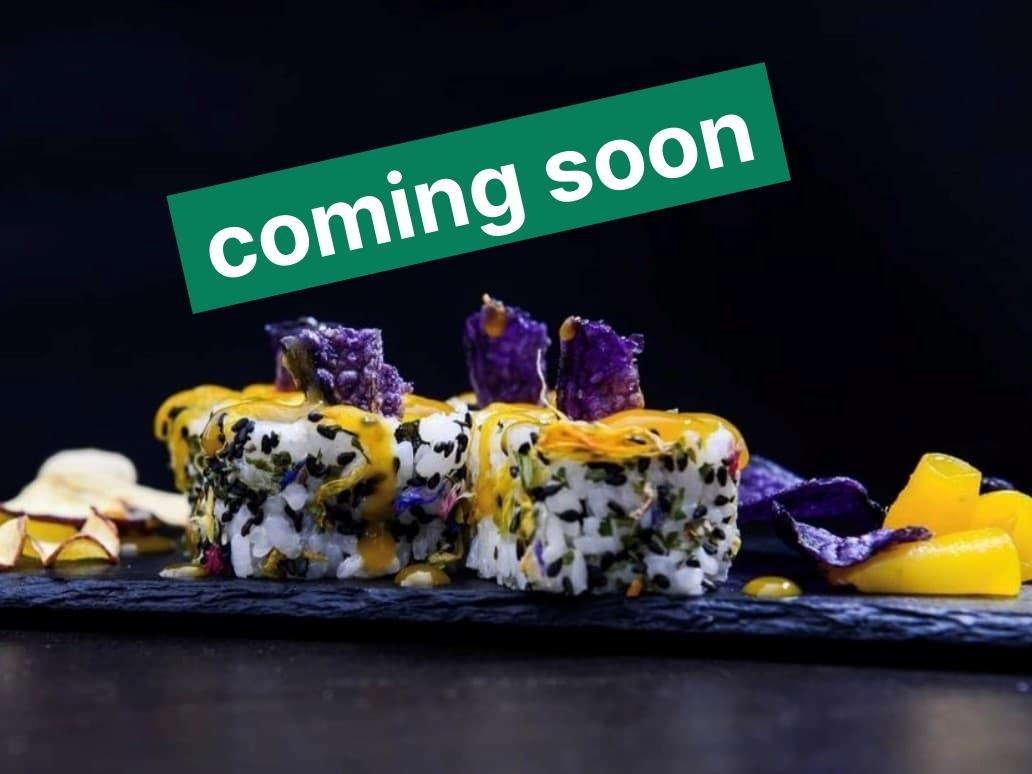
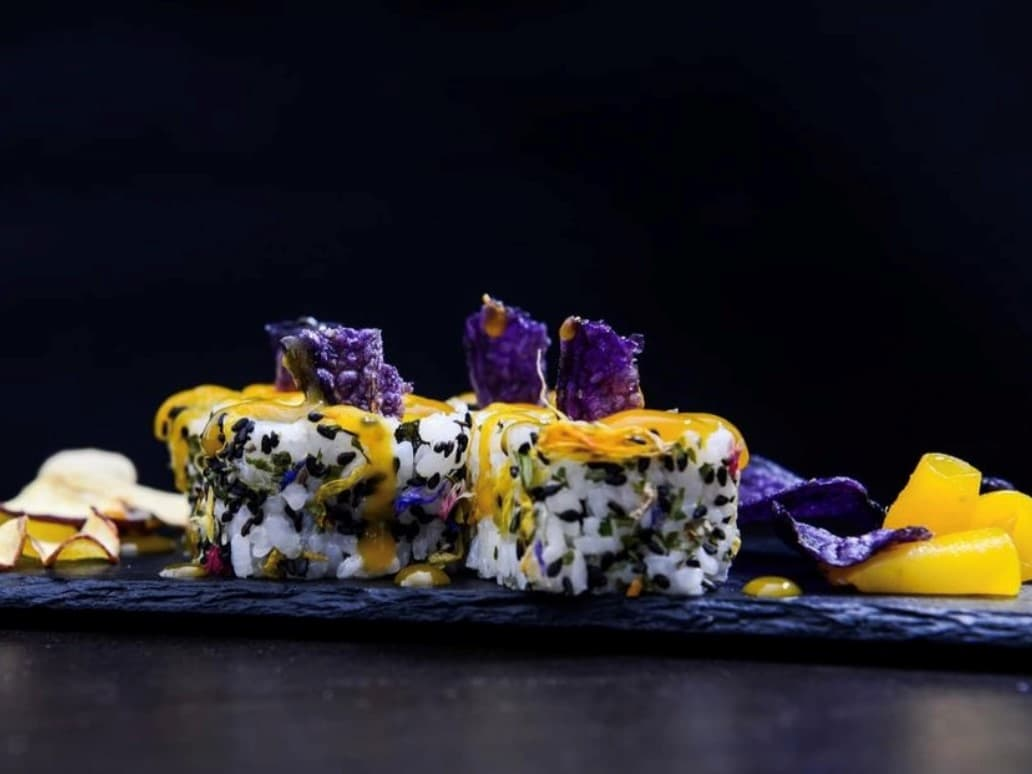
updated menu page

Changed region(s): [[0.155, 0.062, 0.7752, 0.4031]]

diff --git a/html/menu.html b/html/menu.html
@@ -252,25 +252,69 @@
               </div>
             </div>
           </div>
-        </div>
-        <div class="menu-pdf-link-container">
-          <a class="menu-pdf-link" href="../pdf/osterbrunch.pdf" target="_blank"
-            >Osterbrunch
-            <svg
-              xmlns="http://www.w3.org/2000/svg"
-              class="external-link-icon"
-              fill="none"
-              viewBox="0 0 24 24"
-              stroke="currentColor"
-              stroke-width="2"
-            >
-              <path
-                stroke-linecap="round"
-                stroke-linejoin="round"
-                d="M10 6H6a2 2 0 00-2 2v10a2 2 0 002 2h10a2 2 0 002-2v-4M14 4h6m0 0v6m0-6L10 14"
-              />
-            </svg>
-          </a>
+
+          <div class="grid-element-container">
+            <div class="grid-element">
+              <img class="menu-img" src="../img/brunch-menu.jpg" />
+              <div class="menu-text-container">
+                <h2 class="heading-secondary menu-title">Brunch</h2>
+                <p class="price-text">
+                  <svg
+                    xmlns="http://www.w3.org/2000/svg"
+                    class="clipboard-icon"
+                    fill="none"
+                    viewBox="0 0 24 24"
+                    stroke="currentColor"
+                    stroke-width="2"
+                  >
+                    <path
+                      stroke-linecap="round"
+                      stroke-linejoin="round"
+                      d="M9 5H7a2 2 0 00-2 2v12a2 2 0 002 2h10a2 2 0 002-2V7a2 2 0 00-2-2h-2M9 5a2 2 0 002 2h2a2 2 0 002-2M9 5a2 2 0 012-2h2a2 2 0 012 2m-3 7h3m-3 4h3m-6-4h.01M9 16h.01"
+                    /></svg
+                  >Package: CHF 49
+                </p>
+                <p class="price-text price-text-last">
+                  <svg
+                    xmlns="http://www.w3.org/2000/svg"
+                    class="clipboard-icon"
+                    fill="none"
+                    viewBox="0 0 24 24"
+                    stroke="currentColor"
+                    stroke-width="2"
+                  >
+                    <path
+                      stroke-linecap="round"
+                      stroke-linejoin="round"
+                      d="M9 5H7a2 2 0 00-2 2v12a2 2 0 002 2h10a2 2 0 002-2V7a2 2 0 00-2-2h-2M9 5a2 2 0 002 2h2a2 2 0 002-2M9 5a2 2 0 012-2h2a2 2 0 012 2m-3 7h3m-3 4h3m-6-4h.01M9 16h.01"
+                    />
+                  </svg>
+                </p>
+                <div class="menu-pdf-link-container">
+                  <a
+                    class="menu-pdf-link"
+                    href="../pdf/osterbrunch.pdf"
+                    target="_blank"
+                    >Osterbrunch
+                    <svg
+                      xmlns="http://www.w3.org/2000/svg"
+                      class="external-link-icon"
+                      fill="none"
+                      viewBox="0 0 24 24"
+                      stroke="currentColor"
+                      stroke-width="2"
+                    >
+                      <path
+                        stroke-linecap="round"
+                        stroke-linejoin="round"
+                        d="M10 6H6a2 2 0 00-2 2v10a2 2 0 002 2h10a2 2 0 002-2v-4M14 4h6m0 0v6m0-6L10 14"
+                      />
+                    </svg>
+                  </a>
+                </div>
+              </div>
+            </div>
+          </div>
         </div>
       </div>
     </section>

diff --git a/html-en/front-page-en.html b/html-en/front-page-en.html
@@ -199,6 +199,61 @@
         <div class="secret-bar-event">
           <img
             class="event-img"
+            alt="delecious vegan pancakes"
+            src="../img/pancakes.jpg"
+          />
+          <div class="event-data">
+            <h3 class="heading-tertiary event-title">ANOAH Brunch</h3>
+            <ul class="event-list">
+              <li class="event-list-element">
+                <svg
+                  xmlns="http://www.w3.org/2000/svg"
+                  class="event-icon"
+                  fill="none"
+                  viewBox="0 0 24 24"
+                  stroke="currentColor"
+                  stroke-width="2"
+                >
+                  <path
+                    stroke-linecap="round"
+                    stroke-linejoin="round"
+                    d="M8 7V3m8 4V3m-9 8h10M5 21h14a2 2 0 002-2V7a2 2 0 00-2-2H5a2 2 0 00-2 2v12a2 2 0 002 2z"
+                  />
+                </svg>
+                <span class="event-date-text">Easter</span>
+              </li>
+              <li class="event-list-element">
+                <svg
+                  xmlns="http://www.w3.org/2000/svg"
+                  class="event-icon"
+                  fill="none"
+                  viewBox="0 0 24 24"
+                  stroke="currentColor"
+                  stroke-width="2"
+                >
+                  <path
+                    stroke-linecap="round"
+                    stroke-linejoin="round"
+                    d="M17.657 16.657L13.414 20.9a1.998 1.998 0 01-2.827 0l-4.244-4.243a8 8 0 1111.314 0z"
+                  />
+                  <path
+                    stroke-linecap="round"
+                    stroke-linejoin="round"
+                    d="M15 11a3 3 0 11-6 0 3 3 0 016 0z"
+                  />
+                </svg>
+                <span class="event-location-text">At ANOAH - Plant Based</span>
+              </li>
+            </ul>
+          </div>
+          <div class="event-link-container">
+            <a class="event-link" href="events-en.html">Learn more &rarr;</a>
+          </div>
+        </div>
+
+        <div class="secret-bar-event">
+          <img
+            class="event-img"
             alt="cocktail glass in front of lights"
             src="../img/secret-bar.jpg"
           />
@@ -277,7 +332,7 @@
                     d="M8 7V3m8 4V3m-9 8h10M5 21h14a2 2 0 002-2V7a2 2 0 00-2-2H5a2 2 0 00-2 2v12a2 2 0 002 2z"
                   />
                 </svg>
-                <span class="event-date-text">Every second Sunday</span>
+                <span class="event-date-text">Coming soon</span>
               </li>
               <li class="event-list-element">
                 <svg

diff --git a/css/queries/queries-menu.css b/css/queries/queries-menu.css
@@ -1,3 +1,76 @@
+/**************************/
+/* BELOW 1280px (Smaller desktops) */
+/**************************/
+
+@media (max-width: 80em) {
+  .menu-img {
+    height: 30rem;
+  }
+
+  .menu-text-container {
+    margin: 0 1.6rem;
+  }
+
+  .menu-title {
+    font-size: 3.2rem;
+  }
+
+  .clipboard-icon {
+    height: 2.4rem;
+    width: 2.4rem;
+    margin-right: 0.6rem;
+  }
+
+  .price-text {
+    font-size: 1.6rem;
+  }
+
+  .menu-pdf-link:link,
+  .menu-pdf-link:visited {
+    font-size: 2rem;
+    padding: 0.6rem 1rem;
+  }
+}
+
+/**************************/
+/* BELOW 800px */
+/**************************/
+
+@media (max-width: 50em) {
+  .menu-grid {
+    grid-template-columns: 1fr 1fr;
+    row-gap: 4.8rem;
+  }
+
+  .menu-img {
+    height: 40rem;
+  }
+
+  .menu-text-container {
+    margin: 0 3.2rem;
+  }
+
+  .menu-title {
+    font-size: 4.8rem;
+  }
+
+  .clipboard-icon {
+    height: 3.2rem;
+    width: 3.2rem;
+    margin-right: 0.8rem;
+  }
+
+  .price-text {
+    font-size: 1.8rem;
+  }
+
+  .menu-pdf-link:link,
+  .menu-pdf-link:visited {
+    font-size: 2.4rem;
+    padding: 0.8rem 1.2rem;
+  }
+}
+
 /* /////////////////////////// */
 /* Below 650px */
 /* /////////////////////////// */

diff --git a/css/style.css b/css/style.css
@@ -120,16 +120,8 @@
 }
 
 .event-grid {
-  /* justify-items: center; */
-  gap: 6.4rem;
-}
-
-.sushi-event {
-  justify-self: end;
-}
-
-.secret-bar-event {
-  justify-self: start;
+  justify-items: center;
+  padding: 0 2.4rem;
 }
 
 .secret-bar-event,
@@ -140,13 +132,13 @@
 }
 
 .event-img {
-  width: 40rem;
+  width: 35rem;
   border-top-left-radius: 20px;
   border-top-right-radius: 20px;
 }
 
 .event-data {
-  margin: 3.2rem 3.2rem 6.4rem 3.2rem;
+  margin: 2.4rem 2.4rem 3.2rem 2.4rem;
 }
 
 .event-list {
@@ -156,8 +148,8 @@
 .event-list-element {
   display: flex;
   align-items: center;
-  font-size: 2.4rem;
-  margin-bottom: 2.4rem;
+  font-size: 1.8rem;
+  margin-bottom: 1.8rem;
 }
 
 .event-icon {
@@ -169,10 +161,10 @@
 .event-link:link,
 .event-link:visited {
   text-decoration: none;
-  font-size: 2.4rem;
+  font-size: 1.8rem;
   background-color: #087f5b;
   color: #f1f3f5;
-  margin-left: 3.2rem;
+  margin-left: 2.4rem;
   padding: 0.8rem 1.2rem;
   border-radius: 11px;
   transition: all 0.3s;
@@ -184,7 +176,7 @@
 }
 
 .event-link-container {
-  margin-bottom: 4.8rem;
+  margin-bottom: 3.2rem;
 }
 
 /**************************/

diff --git a/css/queries/queries-home.css b/css/queries/queries-home.css
@@ -23,26 +23,11 @@
   }
 
   .events-title-container {
-    margin: 0;
+    margin: 2.4rem;
   }
 
   .event-title {
     font-size: 2.4rem;
-  }
-
-  .event-data {
-    margin: 2.4rem 2.4rem 3.2rem 2.4rem;
-  }
-
-  .event-list-element {
-    font-size: 1.8rem;
-    margin-bottom: 1.8rem;
-  }
-
-  .event-link:link,
-  .event-link:visited {
-    font-size: 1.8rem;
-    margin-left: 2.4rem;
   }
 
   .event-link-container {
@@ -96,6 +81,15 @@
     grid-template-rows: 1fr 1fr;
   }
 
+  .event-grid {
+    grid-template-columns: 1fr 1fr;
+    row-gap: 4.8rem;
+  }
+
+  .sushi-event {
+    grid-column: 1/3;
+  }
+
   .map-container {
     grid-row: 1;
     justify-self: start;
@@ -135,12 +129,12 @@
     grid-template-columns: 1fr;
   }
 
-  .sushi-event {
-    justify-self: center;
+  .event-grid {
+    grid-template-columns: 1fr;
   }
 
-  .secret-bar-event {
-    justify-self: center;
+  .sushi-event {
+    grid-column: 1;
   }
 
   .section-find-us {

diff --git a/css/menu.css b/css/menu.css
@@ -10,8 +10,7 @@
   margin-top: 6.4rem;
   margin-bottom: 6.4rem;
   display: grid;
-  grid-template-columns: 1fr 1fr;
-  max-width: 80rem;
+  grid-template-columns: 1fr 1fr 1fr;
 }
 
 .grid-element {
